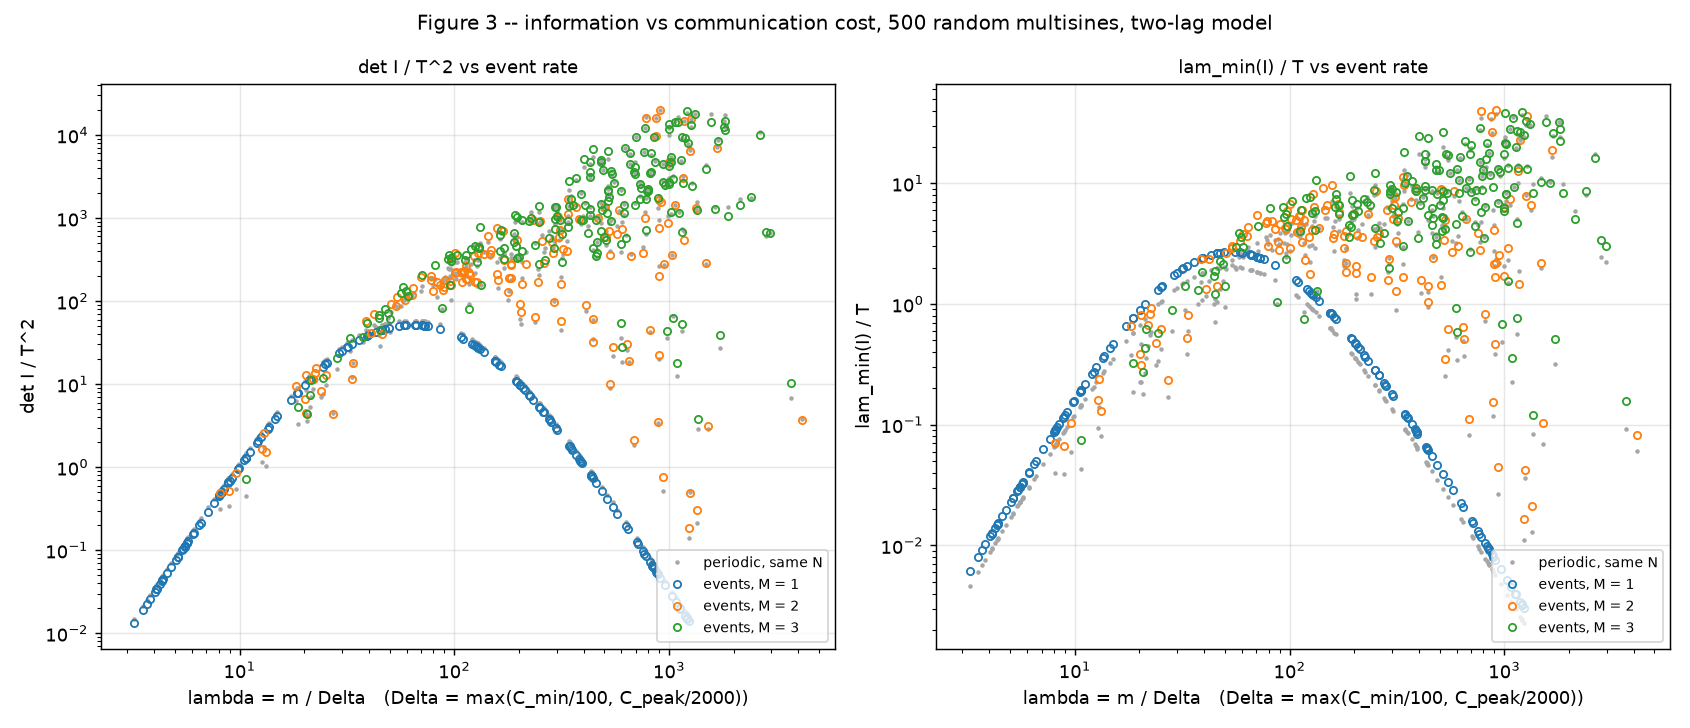
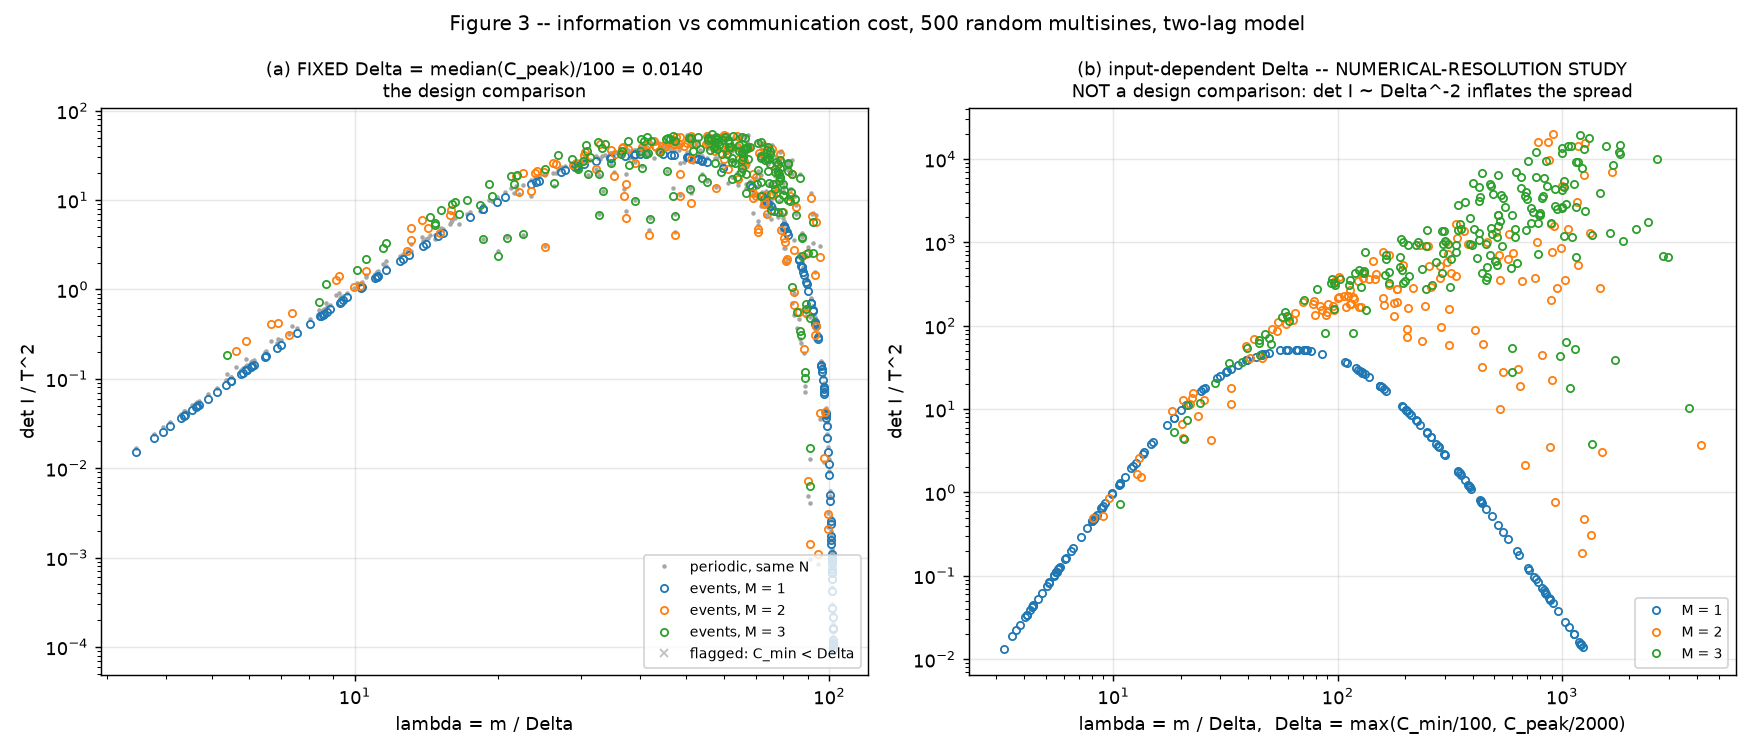
Figure 3 redone at one fixed threshold: remove the Delta^-2 confound
The previous Figure 3 binned inputs by lambda = m/Delta with the
input-dependent Delta rule; det I scales like Delta^-2 at fixed input, so
the x1.4e6 headline spread conflated the threshold rule with input
design.  Retracted and redone:

  - Panel (a), THE design comparison: one fixed Delta =
    median(C_peak)/100 = 0.01400 for all 500 inputs (the trigger is a
    constant of the experiment).  Inputs with C_min < Delta are flagged
    and excluded: 0 of 500 here.  lambda now spans only [3.5, 102]
    because m saturates -- comparable event count is a statement about
    the input, not the threshold.
  - Panel (b) keeps the variable-Delta scatter, relabelled explicitly as
    a numerical-resolution study, not a design comparison.

Fixed-Delta results: mid-lambda deciles have det I/T^2 p90/p10 of
2.5-7.4 (middle 40%: 4x) -- still beyond factor 2, so the trade-off is
real after the confound is removed.  The spread explodes near the
saturation rate (top decile p90/p10 = 633, max/min 2.5e4), where the
concrete exhibit lives: at the SAME Delta and lambda ~ 96-102,
  BEST : M=2, a=[0.325,0.946], w=[0.126,14.05], det I/T^2 = 2.33
  WORST: M=1, a=[1],           w=[19.41],       det I/T^2 = 9.47e-5
-- same communication cost, x2.5e4 information.  The periodic reference
shows comparable within-bin spread (input content carries it); the
event/periodic factor at equal N stays in [0.70, 1.62].  D and E rank
inputs almost identically (Spearman 0.963).  Scorecard bottom line
[…]

diff --git a/multisine_dynamic.py b/multisine_dynamic.py
@@ -551,6 +551,27 @@ def draw_inputs(n, seed=42):
     return [random_input(int(rng.integers(1, 4)), rng) for _ in range(n)]
 
 
+def _spread_table(lam, y_ev, y_per, name):
+    """p90/p10 of y within deciles of lam; returns (spans, edges)."""
+    print(f"\n  {name}: vertical spread at comparable lambda "
+          f"(deciles of lambda)")
+    print(f"{'lambda bin':>24}{'n':>5}{'p90/p10 ev':>13}{'max/min ev':>13}"
+          f"{'p90/p10 per':>14}")
+    edges = np.quantile(lam, np.linspace(0, 1, 11))
+    spans = []
+    for b in range(10):
+        k = (lam >= edges[b]) & (lam <= edges[b + 1])
+        if k.sum() < 5:
+            continue
+        pe = np.percentile(y_ev[k], [10, 90])
+        pp = np.percentile(y_per[k], [10, 90])
+        spans.append((pe[1] / pe[0], edges[b], edges[b + 1]))
+        print(f"  [{edges[b]:>9.2f},{edges[b+1]:>9.2f}]{k.sum():>5d}"
+              f"{pe[1]/pe[0]:>13.1f}{y_ev[k].max()/y_ev[k].min():>13.1f}"
+              f"{pp[1]/pp[0]:>14.1f}")
+    return spans, edges
+
+
 def fig3(n_inputs=500, n_first=50, outdir=".", workers=4):
     import time
     import matplotlib
@@ -563,10 +584,17 @@ def fig3(n_inputs=500, n_first=50, outdir=".", workers=4):
     print(f"FIGURE 3 -- TRADE-OFF: information rate vs event rate, "
           f"{n_inputs} random inputs, M in {{1,2,3}}")
     print("=" * 96)
-    print(f"  omega log-uniform [0.05, 20], random phases, power = 1 "
-          f"(amplitudes drawn U(0.2,1) then rescaled);")
-    print(f"  window {N_PERIODS} periods of each input's slowest tone; "
-          f"lambda = m/Delta at each input's own Delta.")
+    print("  The DESIGN comparison uses ONE FIXED Delta for every input: "
+          "the trigger is a constant of the")
+    print("  experiment, and det I scales like Delta^-2 at fixed input, "
+          "so an input-dependent Delta rule")
+    print("  injects a spurious Delta^-2 spread into any 'equal lambda' "
+          "comparison.  (The earlier variable-")
+    print("  Delta version of this figure suffered exactly that; it is "
+          "kept as panel (b), relabelled as a")
+    print("  numerical-resolution study.)")
+    print(f"  omega log-uniform [0.05, 20], random phases, power = 1; "
+          f"window {N_PERIODS} periods of the slowest tone.")
 
     t0 = time.time()
     first = run_pool([(i, ms) for i, ms in enumerate(inputs[:n_first])],
@@ -578,52 +606,48 @@ def fig3(n_inputs=500, n_first=50, outdir=".", workers=4):
                      in enumerate(inputs[n_first:])], workers=workers)
     print(f"  full sweep: {time.time() - t0:.1f} s total")
     res = [r for r in first + rest if r["ok"]]
-    nfloor = sum(1 for r in res if r["floor"])
-    dcs = np.array([r["Delta"] / r["C_min"] for r in res])
-    dps = np.array([r["Delta"] / r["C_peak"] for r in res])
-    print(f"  {len(res)}/{n_inputs} evaluated; Delta floor hit by "
-          f"{nfloor} = {100*nfloor/len(res):.1f}% of inputs"
-          + ("  <-- OVER 20%: sweep range too wide for the Delta rule"
-             if nfloor > 0.2 * len(res) else ""))
-    print(f"  Delta/C_min: median {np.median(dcs):.4f}, max {dcs.max():.3f}"
-          f";  Delta/C_peak: median {np.median(dps):.5f}, max "
-          f"{dps.max():.5f}")
 
-    lam = np.array([r["lam"] for r in res])
+    # ---- the fixed experiment threshold ---------------------------------
+    C_peaks = np.array([r["C_peak"] for r in res])
+    C_mins = np.array([r["C_min"] for r in res])
+    delta_fix = float(np.median(C_peaks)) / 100.0
+    keep = C_mins >= delta_fix
+    print(f"\n  FIXED Delta = median(C_peak)/100 = {delta_fix:.5f}   "
+          f"(median C_peak = {100*delta_fix:.4f})")
+    print(f"  inputs with C_min < Delta: {int((~keep).sum())} of "
+          f"{len(res)} -- FLAGGED and excluded from the")
+    print("  statistics below (their weakest component moves less than "
+          "one threshold: too few events per")
+    print("  component to be meaningful); they are drawn as light "
+          "crosses in panel (a).")
+
+    m_all = np.array([r["m"] for r in res])
     Ms = np.array([r["M"] for r in res])
-    det_ev = np.array([r["det_rate"] for r in res])
-    det_pp = np.array([r["det_rate_per"] for r in res])
-    lmin_ev = np.array([r["lmin_rate"] for r in res])
-    lmin_pp = np.array([r["lmin_rate_per"] for r in res])
+    detMw = np.array([r["detMw"] for r in res])
+    detM1 = np.array([r["detM1"] for r in res])
+    lamMw = np.array([r["lamMw"] for r in res])
+    lamM1 = np.array([r["lamM1"] for r in res])
 
-    def spread_table(y_ev, y_per, name):
-        print(f"\n  {name}: vertical spread at comparable lambda "
-              f"(deciles of lambda)")
-        print(f"{'lambda bin':>24}{'n':>5}{'p90/p10 ev':>13}"
-              f"{'max/min ev':>13}{'p90/p10 per':>14}")
-        edges = np.quantile(lam, np.linspace(0, 1, 11))
-        spans = []
-        for b in range(10):
-            k = (lam >= edges[b]) & (lam <= edges[b + 1])
-            if k.sum() < 5:
-                continue
-            pe = np.percentile(y_ev[k], [10, 90])
-            pp = np.percentile(y_per[k], [10, 90])
-            spans.append((pe[1] / pe[0], b, edges[b], edges[b + 1]))
-            print(f"  [{edges[b]:>9.2f},{edges[b+1]:>9.2f}]{k.sum():>5d}"
-                  f"{pe[1]/pe[0]:>13.1f}{y_ev[k].max()/y_ev[k].min():>13.1f}"
-                  f"{pp[1]/pp[0]:>14.1f}")
-        return spans, edges
+    lamF = m_all / delta_fix                      # fixed-Delta event rate
+    detF_ev, detF_pp = lamF ** 2 * detMw, lamF ** 2 * detM1
+    lminF_ev, lminF_pp = lamF * lamMw, lamF * lamM1
 
-    spans, edges = spread_table(det_ev, det_pp, "det I / T^2")
-    spread_table(lmin_ev, lmin_pp, "lam_min(I) / T")
+    k = keep
+    print(f"\n  === FIXED-Delta analysis ({int(k.sum())} inputs) ===")
+    print(f"  lambda = m/Delta now spans [{lamF[k].min():.1f}, "
+          f"{lamF[k].max():.1f}] only (m saturates), so 'comparable")
+    print("  event count' is a genuine statement about m, not about the "
+          "threshold rule.")
+    spans, _ = _spread_table(lamF[k], detF_ev[k], detF_pp[k],
+                             "det I / T^2  (FIXED Delta)")
+    _spread_table(lamF[k], lminF_ev[k], lminF_pp[k],
+                  "lam_min(I) / T  (FIXED Delta)")
 
-    # the most convincing exhibit: best and worst input in the widest bin
-    wid, b, lo, hi = max(spans)
-    k = np.where((lam >= lo) & (lam <= hi))[0]
-    ib, iw = k[np.argmax(det_ev[k])], k[np.argmin(det_ev[k])]
-    print(f"\n  WIDEST BIN: lambda in [{lo:.2f}, {hi:.2f}] "
-          f"(p90/p10 = {wid:.1f}).  Best vs worst input in that bin:")
+    wid, lo, hi = max(spans)
+    kk = np.where(k & (lamF >= lo) & (lamF <= hi))[0]
+    ib, iw = kk[np.argmax(detF_ev[kk])], kk[np.argmin(detF_ev[kk])]
+    print(f"\n  WIDEST BIN (fixed Delta): lambda in [{lo:.2f}, {hi:.2f}] "
+          f"(p90/p10 = {wid:.1f}).  Best vs worst:")
     for name, i in (("BEST ", ib), ("WORST", iw)):
         r = res[i]
         print(f"    {name}: M = {r['M']}"
@@ -631,42 +655,75 @@ def fig3(n_inputs=500, n_first=50, outdir=".", workers=4):
               f"   w = [" + ", ".join(f"{w:.4f}" for w in r["freqs"]) + "]"
               f"   ph = [" + ", ".join(f"{p:.4f}" for p in r["phases"])
               + "]")
-        print(f"           lambda = {r['lam']:.2f}   det I/T^2 = "
-              f"{r['det_rate']:.4g}   (m = {r['m']:.4f}, Delta = "
-              f"{r['Delta']:.5f}, Delta/C_min = "
-              f"{r['Delta']/r['C_min']:.4f})")
-    print(f"    -> same event rate within the bin, det I differs by "
-          f"x{det_ev[ib]/det_ev[iw]:.0f}.")
+        print(f"           lambda = {lamF[i]:.2f}   det I/T^2 = "
+              f"{detF_ev[i]:.4g}   (m = {r['m']:.4f}, C_min = "
+              f"{r['C_min']:.4f}, Delta/C_min = "
+              f"{delta_fix/r['C_min']:.4f})")
+    print(f"    -> same threshold, same event rate to within the bin, "
+          f"det I differs by x{detF_ev[ib]/detF_ev[iw]:.3g}.")
 
-    rho_s = spearmanr(det_ev, lmin_ev).statistic
-    print(f"\n  do D and E rank inputs the same way?  Spearman rank "
-          f"correlation of det I/T^2 vs lam_min(I)/T")
-    print(f"  across the {len(res)} inputs: {rho_s:.3f}  (1 = identical "
-          f"ranking).")
+    print(f"\n  periodic reference at the same N, fixed Delta: its "
+          f"within-bin p90/p10 is listed above --")
+    print("  it shows a COMPARABLE spread, so the spread is carried by "
+          "the input's frequency content;")
+    dr = detF_ev[k] / detF_pp[k]
+    print(f"  the event/periodic distinction at equal N stays within "
+          f"[{dr.min():.3f}, {dr.max():.3f}] on top.")
 
-    fig, ax = plt.subplots(1, 2, figsize=(13, 5.6))
-    for a, (ye, yp, lab) in zip(
-            ax, ((det_ev, det_pp, "det I / T^2"),
-                 (lmin_ev, lmin_pp, "lam_min(I) / T"))):
-        a.loglog(lam, yp, ".", ms=3, color="0.65", label="periodic, same N")
-        for Mn, col in ((1, "C0"), (2, "C1"), (3, "C2")):
-            kk = Ms == Mn
-            a.loglog(lam[kk], ye[kk], "o", ms=4, color=col, mfc="none",
-                     label=f"events, M = {Mn}")
-        a.set_xlabel("lambda = m / Delta   (Delta = max(C_min/100, "
-                     "C_peak/2000))")
-        a.set_ylabel(lab)
-        a.set_title(f"{lab} vs event rate", fontsize=10)
-        a.legend(fontsize=8, loc="lower right")
-        a.grid(alpha=0.3)
+    rho_s = spearmanr(detF_ev[k], lminF_ev[k]).statistic
+    print(f"\n  D vs E ranking (fixed Delta, kept inputs): Spearman = "
+          f"{rho_s:.3f}  (1 = identical ranking).")
+
+    # ---- variable-Delta numbers (resolution study, panel b) -------------
+    lamV = np.array([r["lam"] for r in res])
+    detV = np.array([r["det_rate"] for r in res])
+    nfloor = sum(1 for r in res if r["floor"])
+    print(f"\n  panel (b), input-dependent Delta = max(C_min/100, "
+          f"C_peak/2000): floor hit by {nfloor} = "
+          f"{100*nfloor/len(res):.1f}% of inputs;")
+    print("  kept ONLY as a numerical-resolution study (which Delta "
+          "each input was SIMULATED at in the")
+    print("  validation runs), NOT as a design comparison.")
+
+    fig, ax = plt.subplots(1, 2, figsize=(13.5, 5.8))
+    a = ax[0]
+    a.loglog(lamF[k], detF_pp[k], ".", ms=3, color="0.65",
+             label="periodic, same N")
+    for Mn, col in ((1, "C0"), (2, "C1"), (3, "C2")):
+        s_ = k & (Ms == Mn)
+        a.loglog(lamF[s_], detF_ev[s_], "o", ms=4, color=col, mfc="none",
+                 label=f"events, M = {Mn}")
+    a.loglog(lamF[~k], detF_ev[~k], "x", ms=4, color="0.75",
+             label="flagged: C_min < Delta")
+    a.set_xlabel("lambda = m / Delta")
+    a.set_ylabel("det I / T^2")
+    a.set_title(f"(a) FIXED Delta = median(C_peak)/100 = {delta_fix:.4f}"
+                "\nthe design comparison", fontsize=10)
+    a.legend(fontsize=8, loc="lower right")
+
+    b = ax[1]
+    for Mn, col in ((1, "C0"), (2, "C1"), (3, "C2")):
+        s_ = Ms == Mn
+        b.loglog(lamV[s_], detV[s_], "o", ms=4, color=col, mfc="none",
+                 label=f"M = {Mn}")
+    b.set_xlabel("lambda = m / Delta,  Delta = max(C_min/100, C_peak/2000)")
+    b.set_ylabel("det I / T^2")
+    b.set_title("(b) input-dependent Delta -- NUMERICAL-RESOLUTION STUDY"
+                "\nNOT a design comparison: det I ~ Delta^-2 inflates the "
+                "spread", fontsize=10)
+    b.legend(fontsize=8, loc="lower right")
+    for a_ in ax:
+        a_.grid(alpha=0.3)
     fig.suptitle(f"Figure 3 -- information vs communication cost, "
-                 f"{n_inputs} random multisines, two-lag model", fontsize=11)
+                 f"{n_inputs} random multisines, two-lag model",
+                 fontsize=11)
     fig.tight_layout()
     path = f"{outdir}/multisine_dynamic_fig3.png"
     fig.savefig(path, dpi=130)
     plt.close(fig)
     print(f"\n  figure written to {path}")
-    return res
+    return dict(res=res, delta_fix=delta_fix, keep=keep, lamF=lamF,
+                detF_ev=detF_ev)
 
 
 # --------------------------------------------------------------------------
@@ -727,7 +784,7 @@ def fig4(res, f1ws, f1det, outdir="."):
 # Scorecard and the full run
 # --------------------------------------------------------------------------
 
-def scorecard(f1, f2, res):
+def scorecard(f1, f2, f3):
     ws = f1["ws"]
     rows = f1["rows"]
     print("\n" + "=" * 96)
@@ -791,22 +848,25 @@ def scorecard(f1, f2, res):
           "envelope-sum identity was sufficient, not")
     print("   necessary, for the M > 1 gain.")
 
-    lam = np.array([r["lam"] for r in res])
-    de = np.array([r["det_rate"] for r in res])
-    mid = (lam > np.quantile(lam, 0.3)) & (lam < np.quantile(lam, 0.7))
-    p = np.percentile(de[mid], [10, 90])
-    print("\nBOTTOM LINE (the supervisor's question): at comparable event "
-          "rate (middle 40% of lambda),")
-    print(f"   det I/T^2 spans p90/p10 = {p[1]/p[0]:.0f}x.  Far beyond "
-          f"factor 2: input choice changes the information")
-    print("   enormously at the same communication cost -- the trade-off "
-          "is real.  Where the figures point (words")
-    print("   only, no optimisation): efficient inputs concentrate their "
-          "power within roughly a factor 3 of the")
-    print(f"   filter corners 1/T1 = {1/TAU1:g} and 1/T2 = {1/TAU2:g}; "
-          f"high-frequency tones buy events but almost no")
-    print("   information; and a slightly-split pair of tones beats a "
-          "single tone at equal N (Figure 2d).")
+    k = f3["keep"]
+    lamF, deF = f3["lamF"][k], f3["detF_ev"][k]
+    mid = (lamF > np.quantile(lamF, 0.3)) & (lamF < np.quantile(lamF, 0.7))
+    p = np.percentile(deF[mid], [10, 90])
+    print("\nBOTTOM LINE (the supervisor's question), at ONE FIXED "
+          "threshold Delta = median(C_peak)/100 =")
+    print(f"   {f3['delta_fix']:.5f} for every input -- the earlier "
+          "variable-Delta headline conflated the Delta^-2")
+    print("   scaling of det I with input design and is retracted; panel "
+          "(b) keeps it only as a resolution")
+    print(f"   study.  At comparable event rate (middle 40% of lambda), "
+          f"det I/T^2 spans p90/p10 = {p[1]/p[0]:.0f}x.")
+    print("   Still far beyond factor 2: the trade-off is real after the "
+          "confound is removed.  Efficient inputs")
+    print(f"   concentrate power within roughly a factor 3 of the filter "
+          f"corners 1/T1 = {1/TAU1:g}, 1/T2 = {1/TAU2:g}; high-")
+    print("   frequency tones buy events but almost no information; a "
+          "slightly-split pair beats a single tone")
+    print("   at equal N (Figure 2d).")
 
 
 def run_partA(scratch):
@@ -841,9 +901,9 @@ def run_partB(scratch, f1, f2):
     from multisine_criteria import _run_and_log
 
     def _b():
-        res = fig3()
-        fig4(res, f1["ws"], np.array([q["detMw"] for q in f1["rows"]]))
-        scorecard(f1, f2, res)
-        return res
+        f3 = fig3()
+        fig4(f3["res"], f1["ws"], np.array([q["detMw"] for q in f1["rows"]]))
+        scorecard(f1, f2, f3)
+        return f3
 
     _run_and_log([_b], path="multisine_dynamic_output.txt", mode="a")
